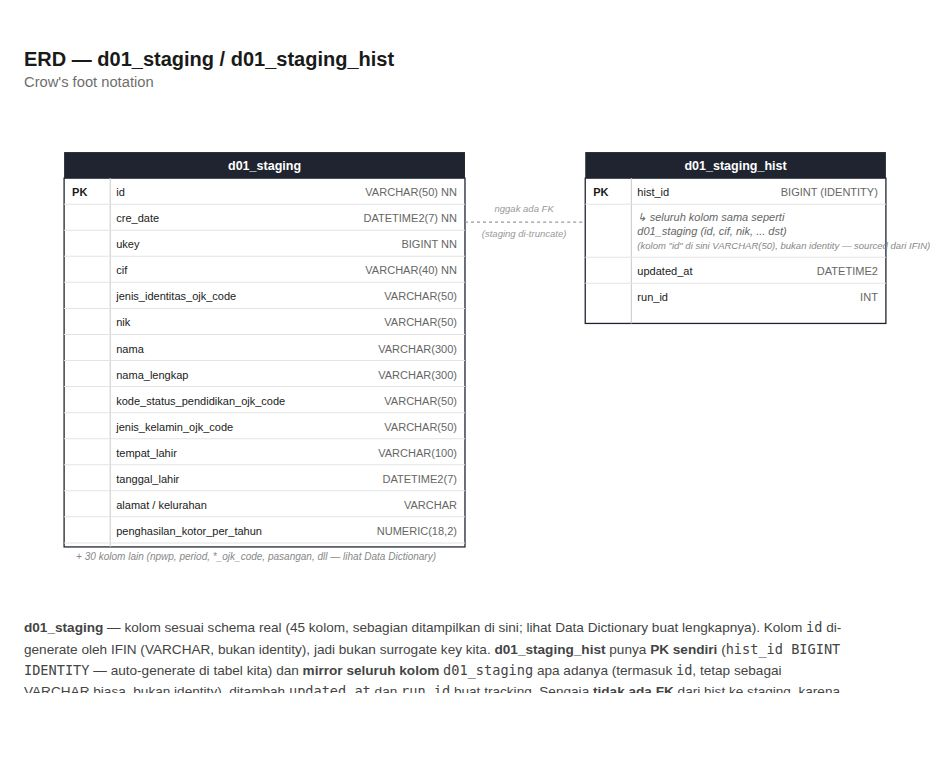
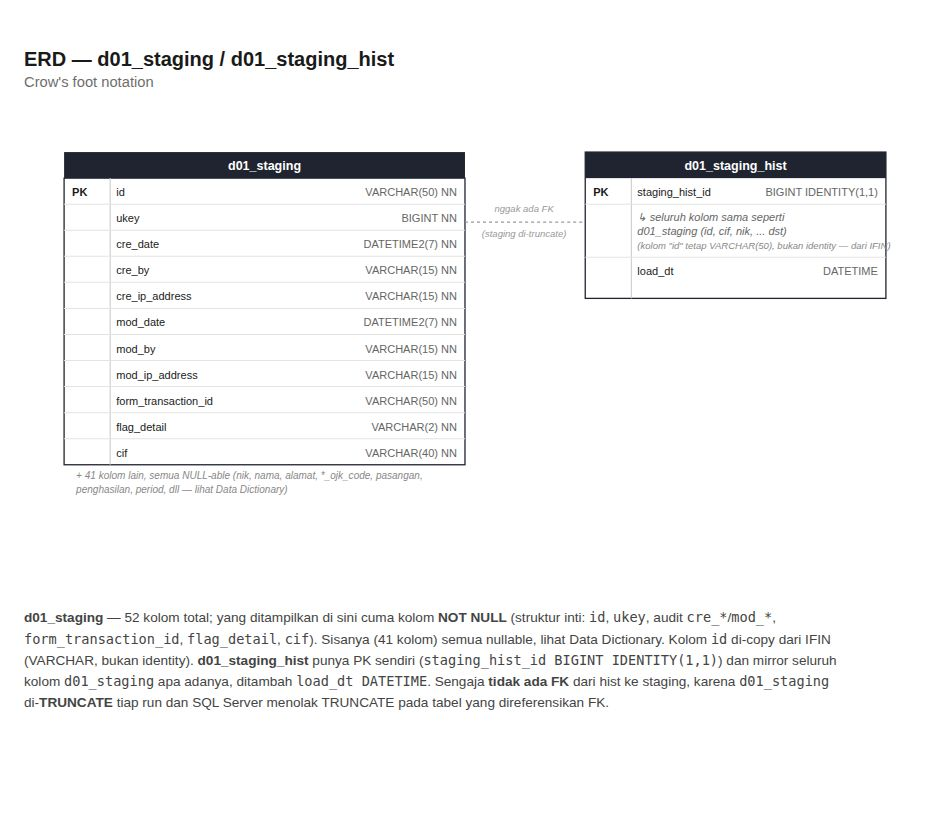
Update d01_staging ERD to match real DDL (52 columns)
Show only NOT NULL structural columns in the ERD box (id, ukey,
cre_*/mod_* audit fields, form_transaction_id, flag_detail, cif);
the 41 nullable business columns are referenced to the Data
Dictionary instead of cluttering the diagram. d01_staging_hist's PK
is now staging_hist_id BIGINT IDENTITY(1,1), with load_dt replacing
the earlier updated_at/run_id placeholders.

Claude-Session: https://claude.ai/code/session_014C9kGdJkWi39x56LKuje1F

diff --git a/diagrams/slik-erd-crowsfoot.html b/diagrams/slik-erd-crowsfoot.html
@@ -27,63 +27,55 @@
   <p class="subtitle">Crow's foot notation</p>
 
   <figure>
-    <svg viewBox="0 0 900 470" role="img" aria-label="d01_staging berisi kolom sesuai schema real IFIN. d01_staging_hist punya PK identity sendiri dan mirror seluruh kolom d01_staging ditambah updated_at dan run_id, tanpa foreign key ke d01_staging karena tabel itu di-truncate tiap run.">
+    <svg viewBox="0 0 900 460" role="img" aria-label="d01_staging berisi kolom NOT NULL sebagai struktur inti (id, ukey, kolom audit cre dan mod, form_transaction_id, flag_detail, cif), plus 41 kolom nullable lain untuk data SLIK. d01_staging_hist punya PK sendiri staging_hist_id, mirror seluruh kolom d01_staging, dan kolom load_dt, tanpa foreign key ke d01_staging karena tabel itu di-truncate tiap run.">
       <!-- ===== d01_staging ===== -->
       <g>
         <rect x="40" y="30" width="400" height="26" fill="#1f2430"/>
         <text x="240" y="48" text-anchor="middle" font-size="12.5" font-weight="700" fill="#ffffff">d01_staging</text>
-        <rect x="40" y="56" width="400" height="368" fill="none" stroke="#1f2430" stroke-width="1.3"/>
+        <rect x="40" y="56" width="400" height="286" fill="none" stroke="#1f2430" stroke-width="1.3"/>
 
-        <line x1="86" y1="56" x2="86" y2="424" stroke="#c9c9c9" stroke-width="1"/>
+        <line x1="86" y1="56" x2="86" y2="342" stroke="#c9c9c9" stroke-width="1"/>
         <g font-size="11" fill="#1a1a1a">
           <text x="48" y="74" font-weight="700">PK</text><text x="92" y="74">id</text><text x="432" y="74" text-anchor="end" fill="#666">VARCHAR(50) NN</text>
           <line x1="40" y1="82" x2="440" y2="82" stroke="#e3e3e3"/>
-          <text x="92" y="100">cre_date</text><text x="432" y="100" text-anchor="end" fill="#666">DATETIME2(7) NN</text>
+          <text x="92" y="100">ukey</text><text x="432" y="100" text-anchor="end" fill="#666">BIGINT NN</text>
           <line x1="40" y1="108" x2="440" y2="108" stroke="#e3e3e3"/>
-          <text x="92" y="126">ukey</text><text x="432" y="126" text-anchor="end" fill="#666">BIGINT NN</text>
+          <text x="92" y="126">cre_date</text><text x="432" y="126" text-anchor="end" fill="#666">DATETIME2(7) NN</text>
           <line x1="40" y1="134" x2="440" y2="134" stroke="#e3e3e3"/>
-          <text x="92" y="152">cif</text><text x="432" y="152" text-anchor="end" fill="#666">VARCHAR(40) NN</text>
+          <text x="92" y="152">cre_by</text><text x="432" y="152" text-anchor="end" fill="#666">VARCHAR(15) NN</text>
           <line x1="40" y1="160" x2="440" y2="160" stroke="#e3e3e3"/>
-          <text x="92" y="178">jenis_identitas_ojk_code</text><text x="432" y="178" text-anchor="end" fill="#666">VARCHAR(50)</text>
+          <text x="92" y="178">cre_ip_address</text><text x="432" y="178" text-anchor="end" fill="#666">VARCHAR(15) NN</text>
           <line x1="40" y1="186" x2="440" y2="186" stroke="#e3e3e3"/>
-          <text x="92" y="204">nik</text><text x="432" y="204" text-anchor="end" fill="#666">VARCHAR(50)</text>
+          <text x="92" y="204">mod_date</text><text x="432" y="204" text-anchor="end" fill="#666">DATETIME2(7) NN</text>
           <line x1="40" y1="212" x2="440" y2="212" stroke="#e3e3e3"/>
-          <text x="92" y="230">nama</text><text x="432" y="230" text-anchor="end" fill="#666">VARCHAR(300)</text>
+          <text x="92" y="230">mod_by</text><text x="432" y="230" text-anchor="end" fill="#666">VARCHAR(15) NN</text>
           <line x1="40" y1="238" x2="440" y2="238" stroke="#e3e3e3"/>
-          <text x="92" y="256">nama_lengkap</text><text x="432" y="256" text-anchor="end" fill="#666">VARCHAR(300)</text>
+          <text x="92" y="256">mod_ip_address</text><text x="432" y="256" text-anchor="end" fill="#666">VARCHAR(15) NN</text>
           <line x1="40" y1="264" x2="440" y2="264" stroke="#e3e3e3"/>
-          <text x="92" y="282">kode_status_pendidikan_ojk_code</text><text x="432" y="282" text-anchor="end" fill="#666">VARCHAR(50)</text>
+          <text x="92" y="282">form_transaction_id</text><text x="432" y="282" text-anchor="end" fill="#666">VARCHAR(50) NN</text>
           <line x1="40" y1="290" x2="440" y2="290" stroke="#e3e3e3"/>
-          <text x="92" y="308">jenis_kelamin_ojk_code</text><text x="432" y="308" text-anchor="end" fill="#666">VARCHAR(50)</text>
+          <text x="92" y="308">flag_detail</text><text x="432" y="308" text-anchor="end" fill="#666">VARCHAR(2) NN</text>
           <line x1="40" y1="316" x2="440" y2="316" stroke="#e3e3e3"/>
-          <text x="92" y="334">tempat_lahir</text><text x="432" y="334" text-anchor="end" fill="#666">VARCHAR(100)</text>
-          <line x1="40" y1="342" x2="440" y2="342" stroke="#e3e3e3"/>
-          <text x="92" y="360">tanggal_lahir</text><text x="432" y="360" text-anchor="end" fill="#666">DATETIME2(7)</text>
-          <line x1="40" y1="368" x2="440" y2="368" stroke="#e3e3e3"/>
-          <text x="92" y="386">alamat / kelurahan</text><text x="432" y="386" text-anchor="end" fill="#666">VARCHAR</text>
-          <line x1="40" y1="394" x2="440" y2="394" stroke="#e3e3e3"/>
-          <text x="92" y="412">penghasilan_kotor_per_tahun</text><text x="432" y="412" text-anchor="end" fill="#666">NUMERIC(18,2)</text>
-          <line x1="40" y1="420" x2="440" y2="420" stroke="#e3e3e3"/>
+          <text x="92" y="334">cif</text><text x="432" y="334" text-anchor="end" fill="#666">VARCHAR(40) NN</text>
         </g>
-        <text x="52" y="437" font-style="italic" fill="#888" font-size="10">+ 30 kolom lain (npwp, period, *_ojk_code, pasangan, dll — lihat Data Dictionary)</text>
+        <text x="52" y="356" font-style="italic" fill="#888" font-size="10">+ 41 kolom lain, semua NULL-able (nik, nama, alamat, *_ojk_code, pasangan,</text>
+        <text x="52" y="370" font-style="italic" fill="#888" font-size="10">penghasilan, period, dll — lihat Data Dictionary)</text>
       </g>
 
       <!-- ===== d01_staging_hist ===== -->
       <g>
+        <rect x="560" y="30" width="300" height="146" fill="none" stroke="#1f2430" stroke-width="1.3"/>
         <rect x="560" y="30" width="300" height="26" fill="#1f2430"/>
         <text x="710" y="48" text-anchor="middle" font-size="12.5" font-weight="700" fill="#ffffff">d01_staging_hist</text>
-        <rect x="560" y="56" width="300" height="145" fill="none" stroke="#1f2430" stroke-width="1.3"/>
-        <line x1="606" y1="56" x2="606" y2="201" stroke="#c9c9c9" stroke-width="1"/>
+        <line x1="606" y1="56" x2="606" y2="176" stroke="#c9c9c9" stroke-width="1"/>
         <g font-size="11" fill="#1a1a1a">
-          <text x="568" y="74" font-weight="700">PK</text><text x="612" y="74">hist_id</text><text x="852" y="74" text-anchor="end" fill="#666">BIGINT (IDENTITY)</text>
+          <text x="568" y="74" font-weight="700">PK</text><text x="612" y="74">staging_hist_id</text><text x="852" y="74" text-anchor="end" fill="#666">BIGINT IDENTITY(1,1)</text>
           <line x1="560" y1="82" x2="860" y2="82" stroke="#e3e3e3"/>
           <text x="612" y="99" font-style="italic" fill="#666">↳ seluruh kolom sama seperti</text>
           <text x="612" y="113" font-style="italic" fill="#666">d01_staging (id, cif, nik, ... dst)</text>
-          <text x="612" y="127" font-style="italic" fill="#888" font-size="9.5">   (kolom "id" di sini VARCHAR(50), bukan identity — sourced dari IFIN)</text>
+          <text x="612" y="127" font-style="italic" fill="#888" font-size="9.5">   (kolom "id" tetap VARCHAR(50), bukan identity — dari IFIN)</text>
           <line x1="560" y1="135" x2="860" y2="135" stroke="#e3e3e3"/>
-          <text x="612" y="153">updated_at</text><text x="852" y="153" text-anchor="end" fill="#666">DATETIME2</text>
-          <line x1="560" y1="161" x2="860" y2="161" stroke="#e3e3e3"/>
-          <text x="612" y="179">run_id</text><text x="852" y="179" text-anchor="end" fill="#666">INT</text>
+          <text x="612" y="153">load_dt</text><text x="852" y="153" text-anchor="end" fill="#666">DATETIME</text>
         </g>
       </g>
 
@@ -94,7 +86,7 @@
     </svg>
 
     <figcaption>
-      <b>d01_staging</b> — kolom sesuai schema real (45 kolom, sebagian ditampilkan di sini; lihat Data Dictionary buat lengkapnya). Kolom <code>id</code> di-generate oleh IFIN (VARCHAR, bukan identity), jadi bukan surrogate key kita. <b>d01_staging_hist</b> punya <b>PK sendiri</b> (<code>hist_id BIGINT IDENTITY</code> — auto-generate di tabel kita) dan <b>mirror seluruh kolom</b> <code>d01_staging</code> apa adanya (termasuk <code>id</code>, tetap sebagai VARCHAR biasa, bukan identity), ditambah <code>updated_at</code> dan <code>run_id</code> buat tracking. Sengaja <b>tidak ada FK</b> dari hist ke staging, karena <code>d01_staging</code> di-<b>TRUNCATE</b> tiap run dan SQL Server menolak TRUNCATE pada tabel yang direferensikan FK.
+      <b>d01_staging</b> — 52 kolom total; yang ditampilkan di sini cuma kolom <b>NOT NULL</b> (struktur inti: <code>id</code>, <code>ukey</code>, audit <code>cre_*</code>/<code>mod_*</code>, <code>form_transaction_id</code>, <code>flag_detail</code>, <code>cif</code>). Sisanya (41 kolom) semua nullable, lihat Data Dictionary. Kolom <code>id</code> di-copy dari IFIN (VARCHAR, bukan identity). <b>d01_staging_hist</b> punya PK sendiri (<code>staging_hist_id BIGINT IDENTITY(1,1)</code>) dan mirror seluruh kolom <code>d01_staging</code> apa adanya, ditambah <code>load_dt DATETIME</code>. Sengaja <b>tidak ada FK</b> dari hist ke staging, karena <code>d01_staging</code> di-<b>TRUNCATE</b> tiap run dan SQL Server menolak TRUNCATE pada tabel yang direferensikan FK.
     </figcaption>
   </figure>
 </div>
